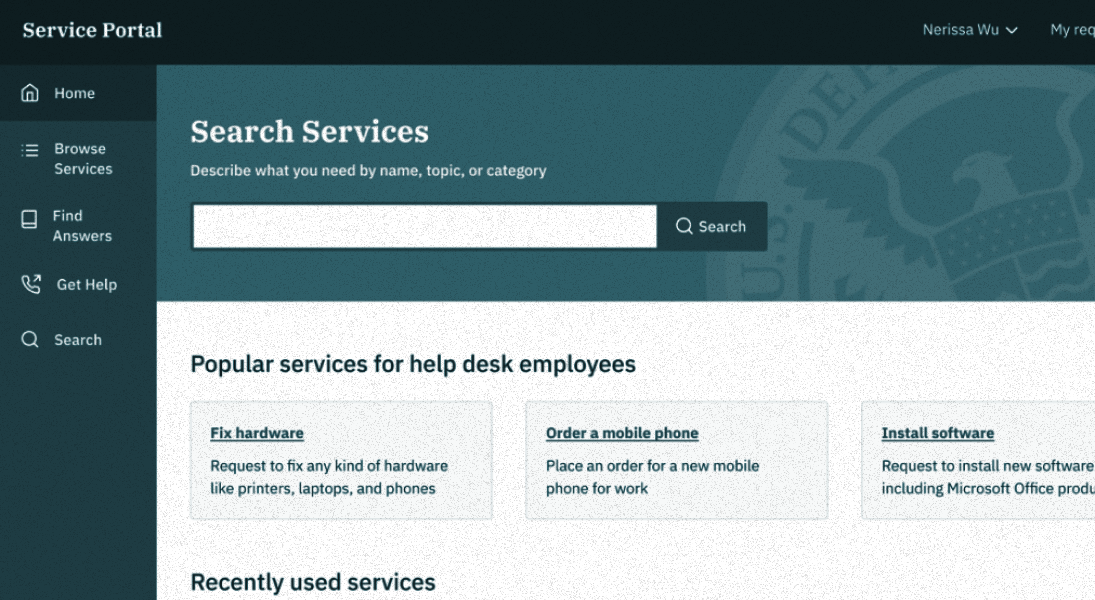
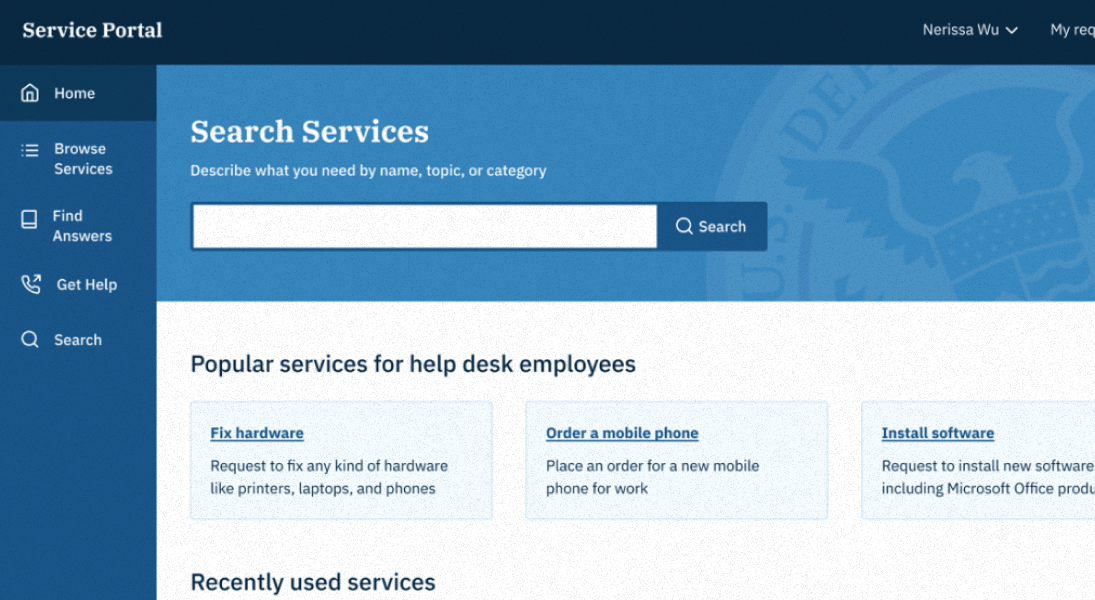
Adds blend to images

diff --git a/work.html b/work.html
@@ -85,10 +85,14 @@
                     </div>
                     <div class="row">
                         <div class="col-lg-4 xl-only">
-                            <img src="img/thumb/theme/ADHOC02.png" alt="Hands swiping through the homepage of VA.gov on VoiceOver iOS.">
+                            <div class="blend">
+                                <img src="img/thumb/theme/ADHOC02.png" alt="Hands swiping through the homepage of VA.gov on VoiceOver iOS.">
+                            </div>
                         </div>
                         <div class="col-lg-8">
-                            <img src="img/thumb/theme/ADHOC01.png" alt="An accessibility page documenting requirements for the VA.gov design system.">
+                            <div class="blend">
+                                <img src="img/thumb/theme/ADHOC01.png" alt="An accessibility page documenting requirements for the VA.gov design system.">
+                            </div>
                         </div>
                     </div>
                 </div>
@@ -113,10 +117,14 @@
                     </div>
                     <div class="row">
                         <div class="col-lg-4 xl-only" style="height:100%;">
-                            <img src="img/thumb/theme/portal-m.png" alt="Layers of prototyped wireframes with sticky notes with user feedback">
+                            <div class="blend">
+                                <img src="img/thumb/theme/portal-m.png" alt="Layers of prototyped wireframes with sticky notes with user feedback">
+                            </div>
                         </div>
                         <div class="col-lg-8" style="height:100%;">
-                            <img src="img/thumb/theme/portal-d.png" alt="A service portal with a large search bar, and two main sections providing quick access to services.">
+                            <div class="blend">
+                                <img src="img/thumb/theme/portal-d.png" alt="A service portal with a large search bar, and two main sections providing quick access to services.">
+                            </div>
                         </div>
                     </div>
                 </div>
@@ -141,10 +149,14 @@
                     </div>
                     <div class="row">
                         <div class="col-lg-4 xl-only">
-                            <img src="img/thumb/theme/ppp-m.png" alt="Two brightly drawn people talking to one another about loans.">
+                            <div class="blend">
+                                <img src="img/thumb/theme/ppp-m.png" alt="Two brightly drawn people talking to one another about loans.">
+                            </div>    
                         </div>
                         <div class="col-lg-8">
-                            <img src="img/thumb/theme/ppp-d.png" alt="Desktop view of the loan eligibility checker displaying recommendations.">
+                            <div class="blend">
+                                <img src="img/thumb/theme/ppp-d.png" alt="Desktop view of the loan eligibility checker displaying recommendations.">
+                            </div>
                         </div>
                     </div>
                 </div>
@@ -169,10 +181,14 @@
                     </div>
                     <div class="row">
                         <div class="col-lg-4 xl-only" style="height:100%;">
-                            <img src="img/thumb/theme/dcdw-m.png" alt="An accessibility page on a mobile screen. DC Design Week is committed to improving accessibility and inclusion efforts each year.">
+                            <div class="blend">
+                                <img src="img/thumb/theme/dcdw-m.png" alt="An accessibility page on a mobile screen. DC Design Week is committed to improving accessibility and inclusion efforts each year.">
+                            </div>
                         </div>
                         <div class="col-lg-8" style="height:100%;">
-                            <img src="img/thumb/theme/dcdw-d.png" alt="A figma page full of accessible button and link styles">
+                            <div class="blend">
+                                <img src="img/thumb/theme/dcdw-d.png" alt="A figma page full of accessible button and link styles">
+                            </div>
                         </div>
                     </div>
                 </div>

diff --git a/css/jk.css b/css/jk.css
@@ -234,6 +234,27 @@ h4 {
     transition: .2s ease-out;
     box-shadow: 0 1.2px 6.7px -32px rgba(0, 0, 0, 0), 0 2.8px 16.2px -32px rgba(0, 0, 0, 0), 0 5.3px 30.4px -32px rgba(0, 0, 0, 0), 0 9.4px 54.3px -32px rgba(0, 0, 0, 0), 0 17.5px 101.5px -32px rgba(0, 0, 0, 0), 0 42px 243px -32px rgba(0, 0, 0, 0);
     border:solid .5px var(--secondary-bg);
+    filter: saturate(0);
+}
+
+.blend {
+    position:relative;
+    width:100%;
+}
+
+.blend::after {
+    position:absolute;
+    content:'';
+    background:#29525d;
+    inset:0;
+    mix-blend-mode:overlay;
+    opacity:1;
+    transition: .2s ease-out;
+}
+
+.project:hover .blend::after {
+    opacity:0;
+    transition: .2s ease-out;
 }
 
 .project h2 {
@@ -257,6 +278,27 @@ h4 {
     margin-bottom: 0px;
     font-weight:700;
 }
+
+.project:hover h2 {
+    color:var(--accent);    
+}
+
+.project:hover .row .col-lg-4 img, .project:focus-within .row .col-lg-4 img {
+    transition: .2s ease-out;
+    border:solid 4px var(--accent);
+    box-shadow: 0 0 0px 4px var(--accent-light);
+    transform:rotate(-1deg);
+    filter: saturate(1);
+}
+
+.project:hover .row .col-lg-8 img, .project:focus-within .row .col-lg-8 img {
+    transition: .2s ease-out;
+    border:solid 4px var(--accent);
+    box-shadow: 0 0 0px 4px var(--accent-light);
+    filter: saturate(1);
+    transform:rotate(1deg);
+}
+
 
 
 /*! CONTENT 
@@ -941,23 +983,6 @@ a:focus, a:link:focus, a:visited:focus, a[aria-current=true]:focus {
 
     .project .row:nth-child(2) .col-lg-4 {
         margin-bottom: 0rem;
-    }
-
-    .project:hover h2 {
-        color:var(--accent);    
-    }
-
-    
-    .project:hover .row .col-lg-4 img, .project:focus-within .row .col-lg-4 img {
-        transition: .2s ease-out;
-        border:solid 4px var(--accent);
-        box-shadow: 0 0 0px 4px var(--accent-light);
-    }
-
-    .project:hover .row .col-lg-8 img, .project:focus-within .row .col-lg-8 img {
-        transition: .2s ease-out;
-        border:solid 4px var(--accent);
-        box-shadow: 0 0 0px 4px var(--accent-light);
     }
 
 

diff --git a/index.html b/index.html
@@ -88,10 +88,14 @@
                     </div>
                     <div class="row">
                         <div class="col-lg-4 xl-only">
-                            <img src="img/thumb/theme/tr-m.png" alt="The cover of Designed with Care featuring a heart comprised of soft geometric shapes.">
+                            <div class="blend">
+                                <img src="img/thumb/theme/tr-m.png" alt="The cover of Designed with Care featuring a heart comprised of soft geometric shapes."> 
+                            </div>                 
                         </div>
                         <div class="col-lg-8">
-                            <img src="img/thumb/theme/tr-d.png" alt="Chapter 15: Compliance is just the start: accessibility for trauma-informed outcomes.">
+                            <div class="blend">
+                                <img src="img/thumb/theme/tr-d.png" alt="Chapter 15: Compliance is just the start: accessibility for trauma-informed outcomes.">
+                            </div>
                         </div>
                     </div>
                 </div>
